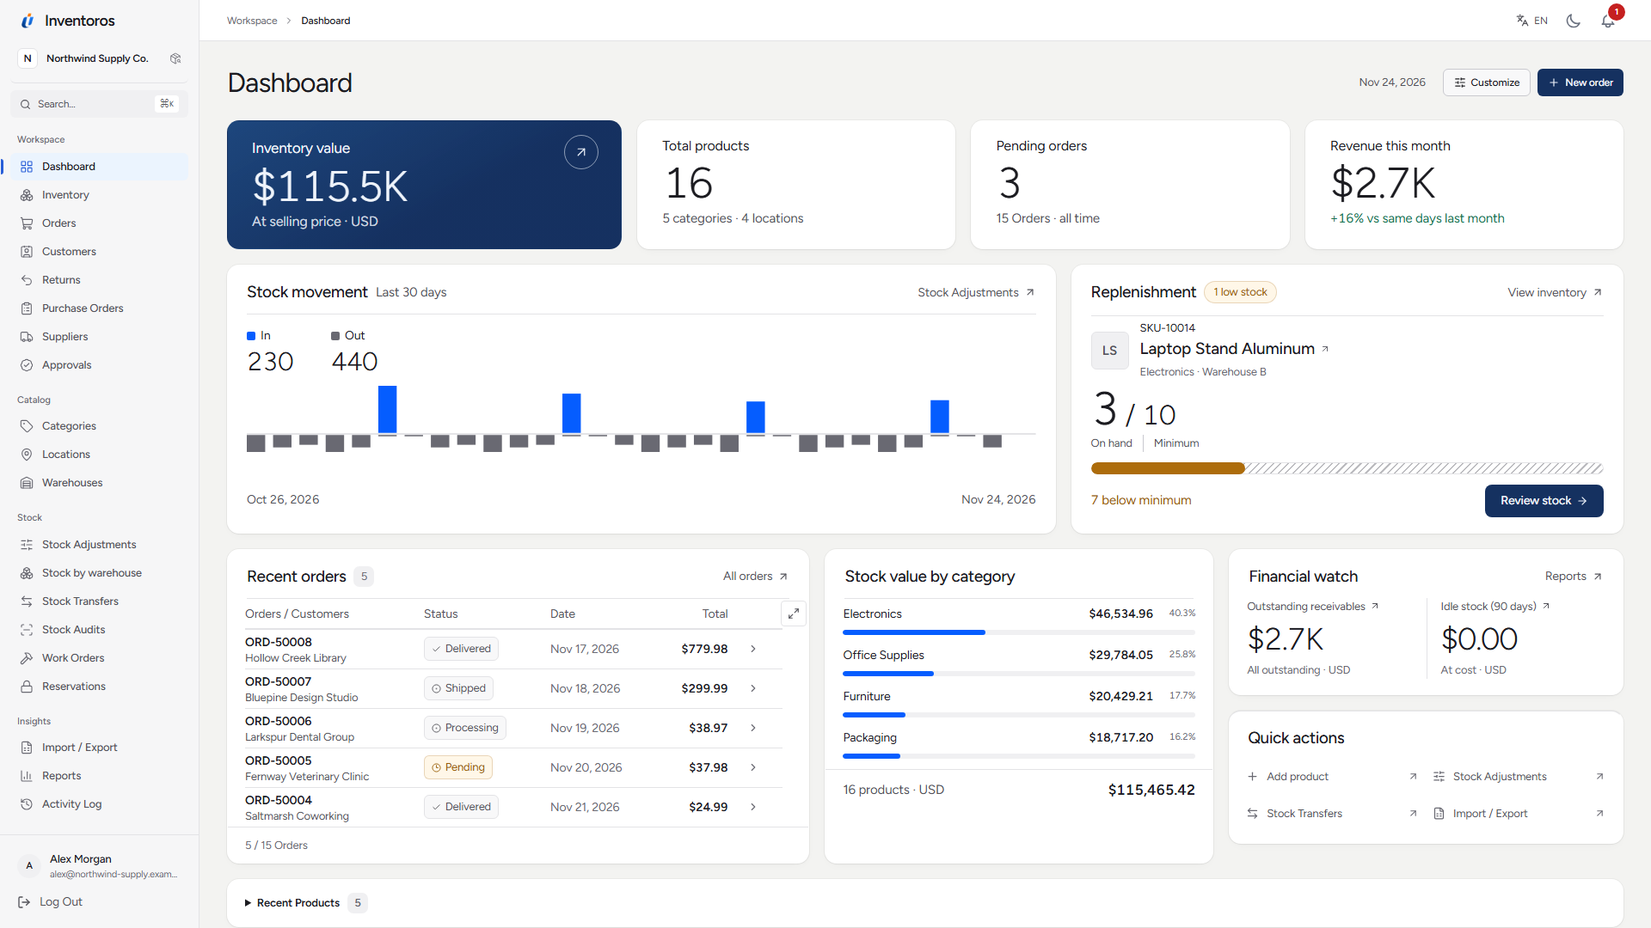
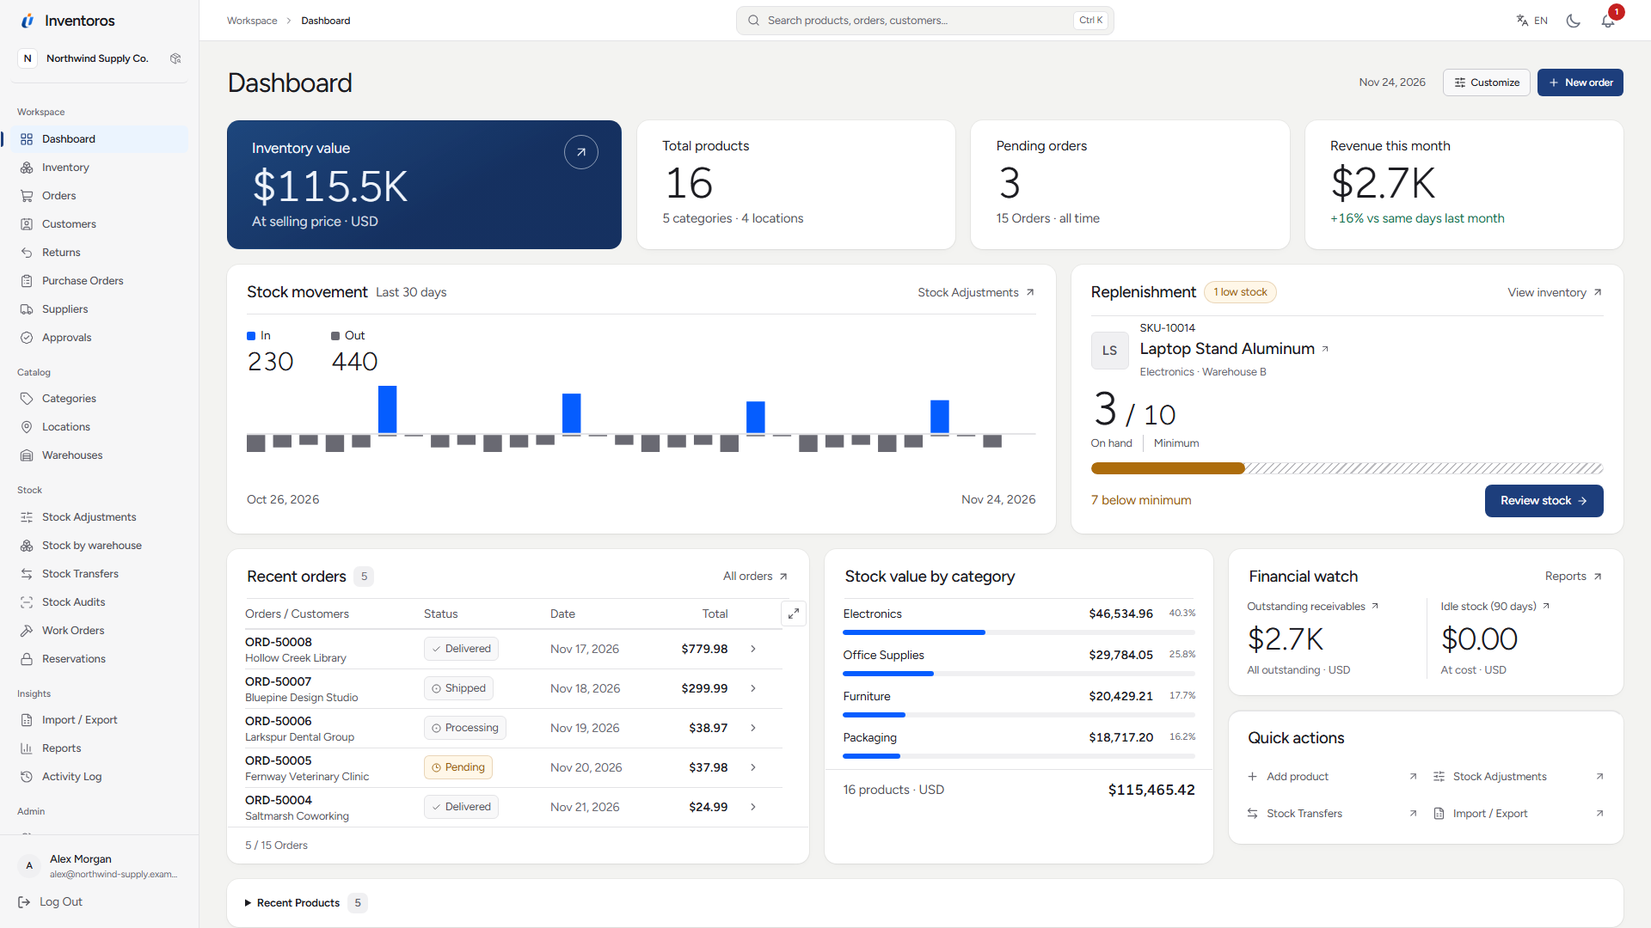
feat(ui): top-bar search, deep-blue primary actions and a dark-mode pass
App-wide, so every page matches the refreshed dashboard:

- Search moves from the sidebar to the centre of the top bar (an icon on
  phones). The hint shows the right shortcut for the keyboard (Cmd K on a
  Mac, Ctrl K elsewhere, with aria-keyshortcuts), and "/" now opens search
  whenever focus is not in a field.
- Light theme: primary actions, links and selection use a deep blue
  (--accent 219 62% 30%); bright blue stays for chart data and the focus
  ring. Every page sits on a soft grey (--surface-page) behind white panels.
- Filled surfaces (primary buttons, checked controls, the active page) use
  new brand-solid colours, so dark mode fills them with a solid blue that
  carries white text while links keep a lighter, readable blue.
- Dark theme: the page is a step below the panels so they separate, and
  the inventory value card uses a richer navy.
- The dashboard's own navy button and page-background overrides are gone;
  it now uses the shared ones. README dashboard screenshots regenerated.

diff --git a/resources/js/Layouts/AppLayout.vue b/resources/js/Layouts/AppLayout.vue
@@ -240,6 +240,11 @@ const visibleSections = computed(() =>
 );
 
 const isActive = (item) => item.active.some((pattern) => route().current(pattern));
+// Shown on the search trigger so the shortcut matches the keyboard in use.
+const isMac = typeof navigator !== 'undefined' && /Mac|iPhone|iPad/.test(navigator.userAgentData?.platform || navigator.platform || '');
+const searchShortcut = isMac ? '⌘K' : 'Ctrl K';
+// The same shortcut in the form aria-keyshortcuts expects.
+const searchKeys = isMac ? 'Meta+K' : 'Control+K';
 </script>
 
 <template>
@@ -304,22 +309,6 @@ const isActive = (item) => item.active.some((pattern) => route().current(pattern
                     </span>
                     <PackageSearch :size="14" :stroke-width="1.6" class="text-text-tertiary" />
                 </Link>
-            </div>
-
-            <!-- Cmd-K search trigger -->
-            <div class="px-3 shrink-0">
-                <button
-                    @click="globalSearchRef?.open()"
-                    class="workspace-search w-full flex items-center gap-2 h-8 px-2.5 rounded-md text-xs text-text-secondary
-                           bg-surface-overlay border border-transparent hover:border-border-strong
-                           transition-colors ds-focus-ring"
-                >
-                    <Search :size="13" />
-                    <span class="flex-1 text-start">{{ t('nav.search') }}</span>
-                    <kbd class="hidden md:inline px-1.5 py-0.5 rounded bg-surface-overlay text-[10px] font-mono text-text-secondary border border-border-subtle">
-                        ⌘K
-                    </kbd>
-                </button>
             </div>
 
             <!-- Nav -->
@@ -398,7 +387,27 @@ const isActive = (item) => item.active.some((pattern) => route().current(pattern
                         <span class="text-xs text-text-tertiary">{{ workspaceName }}</span>
                     </slot>
                 </div>
+                <!-- Global search: Cmd/Ctrl+K anywhere, or "/" outside a field. -->
+                <button
+                    type="button"
+                    class="workspace-search hidden md:flex"
+                    :aria-label="`${t('nav.search')} (${searchShortcut})`"
+                    :aria-keyshortcuts="searchKeys"
+                    @click="globalSearchRef?.open()"
+                >
+                    <Search :size="15" :stroke-width="1.7" aria-hidden="true" />
+                    <span class="workspace-search-placeholder">{{ t('nav.globalSearch.placeholder') }}</span>
+                    <kbd aria-hidden="true">{{ searchShortcut }}</kbd>
+                </button>
                 <div class="workspace-global-controls flex items-center gap-1 shrink-0">
+                    <button
+                        type="button"
+                        class="md:hidden p-1.5 rounded-md text-text-secondary hover:bg-surface-overlay ds-focus-ring"
+                        :aria-label="t('nav.search')"
+                        @click="globalSearchRef?.open()"
+                    >
+                        <Search :size="18" aria-hidden="true" />
+                    </button>
                     <OrganizationSwitcher />
                     <WarehouseSwitcher />
                     <LanguageSwitcher />

diff --git a/resources/js/Components/BarcodeScannerModal.vue b/resources/js/Components/BarcodeScannerModal.vue
@@ -155,7 +155,7 @@ const selectProduct = () => {
                                 :class="[
                                     'px-4 py-2 text-sm rounded-md transition-colors',
                                     scannerMode === 'camera'
-                                        ? 'bg-brand text-white'
+                                        ? 'bg-brand-solid text-white'
                                         : 'bg-gray-100 dark:bg-surface-canvas text-gray-700 dark:text-gray-300'
                                 ]"
                             >
@@ -170,7 +170,7 @@ const selectProduct = () => {
                                 :class="[
                                     'px-4 py-2 text-sm rounded-md transition-colors',
                                     scannerMode === 'manual'
-                                        ? 'bg-brand text-white'
+                                        ? 'bg-brand-solid text-white'
                                         : 'bg-gray-100 dark:bg-surface-canvas text-gray-700 dark:text-gray-300'
                                 ]"
                             >
@@ -207,7 +207,7 @@ const selectProduct = () => {
                             <button
                                 @click="submitManualCode"
                                 :disabled="!manualCode.trim() || isLoading"
-                                class="w-full inline-flex justify-center items-center px-4 py-2 bg-brand border border-transparent rounded-md font-semibold text-xs text-brand-foreground uppercase tracking-widest hover:bg-brand-hover disabled:opacity-50"
+                                class="w-full inline-flex justify-center items-center px-4 py-2 bg-brand-solid border border-transparent rounded-md font-semibold text-xs text-brand-solid-foreground uppercase tracking-widest hover:bg-brand-solid-hover disabled:opacity-50"
                             >
                                 <svg v-if="isLoading" class="animate-spin -ms-1 me-2 h-4 w-4 text-white" fill="none" viewBox="0 0 24 24">
                                     <circle class="opacity-25" cx="12" cy="12" r="10" stroke="currentColor" stroke-width="4"></circle>
@@ -271,7 +271,7 @@ const selectProduct = () => {
                             <p class="mt-1 text-xs text-text-secondary">{{ t('components.barcodeScanner.productsHere', { count: foundLocation.product_count }, foundLocation.product_count) }}</p>
                             <a
                                 :href="foundLocation.products_url"
-                                class="mt-3 inline-flex w-full items-center justify-center rounded-md bg-brand px-4 py-2 text-xs font-semibold text-brand-foreground hover:bg-brand-hover ds-focus-ring"
+                                class="mt-3 inline-flex w-full items-center justify-center rounded-md bg-brand-solid px-4 py-2 text-xs font-semibold text-brand-solid-foreground hover:bg-brand-solid-hover ds-focus-ring"
                             >
                                 {{ t('components.barcodeScanner.viewProductsHere') }}
                             </a>

diff --git a/resources/css/workspace.css b/resources/css/workspace.css
@@ -3,7 +3,6 @@
 .workspace-sidebar { width: var(--workspace-sidebar-width); }
 .workspace-brand { height: 48px; letter-spacing: -0.035em; }
 .workspace-context { border-bottom: 1px solid hsl(var(--border-subtle)); padding-block-end: 8px; }
-.workspace-search kbd { border: 0; background: hsl(var(--surface-raised)); }
 .workspace-section-label { letter-spacing: 0; padding-block: 2px; }
 .workspace-nav > div { margin-bottom: 15px; }
 .workspace-nav-item { border: 1px solid transparent; font-weight: 450; }
@@ -28,6 +27,47 @@
     .workspace-nav-item.is-active::before { background: Highlight; }
 }
 .workspace-topbar { height: 48px; }
+/* Every page sits on the same soft grey, with panels in white. */
+.workspace-main { background-color: hsl(var(--surface-page)); }
+.workspace-main .workspace-topbar { background-color: hsl(var(--surface-raised)); }
+/* Global search, centred in the top bar. */
+.workspace-search {
+    flex: 0 1 420px;
+    align-items: center;
+    gap: 9px;
+    height: 34px;
+    margin-inline: 16px;
+    padding-inline: 12px 6px;
+    border: 1px solid hsl(var(--border-subtle));
+    border-radius: 9px;
+    background: hsl(var(--surface-page));
+    color: hsl(var(--text-tertiary));
+    font-size: 13px;
+    transition: border-color 120ms ease, background-color 120ms ease;
+}
+.workspace-search:hover { border-color: hsl(var(--border-strong)); }
+/* From tablet up the bar is three columns, so search sits in the centre. */
+@media (min-width: 768px) {
+    .workspace-main .workspace-topbar {
+        display: grid;
+        grid-template-columns: minmax(0, 1fr) minmax(240px, 440px) minmax(0, 1fr);
+    }
+    .workspace-topbar .workspace-search { width: 100%; margin-inline: 0; }
+    .workspace-topbar .workspace-global-controls { justify-self: end; }
+}
+.workspace-search:focus-visible { outline: 2px solid hsl(var(--ring)); outline-offset: 2px; }
+.workspace-search-placeholder { flex: 1; min-width: 0; overflow: hidden; text-align: start; text-overflow: ellipsis; white-space: nowrap; }
+.workspace-search kbd {
+    flex-shrink: 0;
+    padding: 2px 6px;
+    border: 1px solid hsl(var(--border-subtle));
+    border-radius: 5px;
+    background: hsl(var(--surface-raised));
+    color: hsl(var(--text-secondary));
+    font-family: inherit;
+    font-size: 11px;
+    line-height: 16px;
+}
 .workspace-topbar .app-breadcrumb { font-size: 12px; }
 .workspace-global-controls { gap: 4px; }
 .workspace-main > main:not(.app-table-page) { padding-block: 28px; }

diff --git a/resources/css/design-tokens.css b/resources/css/design-tokens.css
@@ -13,7 +13,8 @@
 @layer base {
     :root {
         /* Quiet page, white panels, and a light navigation surface. */
-        --surface-canvas: 240 5% 97.5%;        /* page background */
+        --surface-canvas: 240 5% 97.5%;        /* inputs, outline buttons */
+        --surface-page: 40 6% 95%;          /* soft grey behind the panels */
         --surface-base: 240 5% 96.5%;        /* sidebar, header */
         --surface-raised: 0.00 0.00% 100.00%;      /* white panels, popovers */
         --surface-overlay: 240 4% 94.5%;     /* hover, active row */
@@ -32,10 +33,15 @@
         /* Accent — brighter blue (matches the marketing site + app primary).
            The blue accent is dark enough that text-brand meets
            WCAG AA for normal text; blue-500 was only 3.68:1. */
-        --accent: 221.59 69.29% 50.20%;
-        --accent-hover: 226 71% 48%;        /* blue-700 #1d4ed8 */
+        /* Primary actions, links and selection use a deep blue; bright blue
+           stays for chart data and the focus ring. */
+        --accent: 219 62% 30%;
+        --accent-hover: 219 62% 24%;
         --accent-foreground: 0 0% 100%;
         --accent-soft: 214 95% 96%;         /* selected row, badge bg */
+        --accent-solid: 219 62% 30%;
+        --accent-solid-hover: 219 62% 24%;
+        --accent-solid-foreground: 0 0% 100%;
 
         /* Status — semantic, also muted */
         --status-success: 156.38 67.14% 27.45%;
@@ -60,6 +66,7 @@
 
     .dark {
         --surface-canvas: 240 6% 7.5%;       /* neutral graphite */
+        --surface-page: 240 7% 5.5%;        /* a step below the panels */
         --surface-base: 240 6% 9.5%;
         --surface-raised: 240 5% 11%;
         --surface-overlay: 240 4% 15%;
@@ -77,6 +84,9 @@
         --accent-hover: 213 94% 74%;
         --accent-foreground: 222 47% 11%;
         --accent-soft: 217 45% 18%;
+        --accent-solid: 221 83% 53%;
+        --accent-solid-hover: 221 83% 47%;
+        --accent-solid-foreground: 0 0% 100%;
 
         --status-success: 148.80 49.02% 70.00%;
         --status-success-soft: 142 30% 16%;

diff --git a/resources/js/Components/ProductVariantManager.vue b/resources/js/Components/ProductVariantManager.vue
@@ -311,7 +311,7 @@ const getEffectivePurchasePrice = (variant) => {
                             type="button"
                             @click="addOption"
                             :disabled="disabled || !newOptionName || !newOptionValues"
-                            class="px-4 py-2 bg-brand text-brand-foreground rounded-md hover:bg-brand-hover disabled:opacity-50"
+                            class="px-4 py-2 bg-brand-solid text-brand-solid-foreground rounded-md hover:bg-brand-solid-hover disabled:opacity-50"
                         >
                             {{ t('components.variantManager.addOption') }}
                         </button>
@@ -433,7 +433,7 @@ const getEffectivePurchasePrice = (variant) => {
                                         class="sr-only peer"
                                         :disabled="disabled"
                                     />
-                                    <div class="w-9 h-5 bg-gray-200 peer-focus:outline-hidden peer-focus:ring-4 peer-focus:ring-brand/25 rounded-full peer dark:bg-border-subtle peer-checked:after:translate-x-full peer-checked:after:border-white after:content-[''] after:absolute after:top-[2px] after:start-[2px] after:bg-white after:border-gray-300 after:border after:rounded-full after:h-4 after:w-4 after:transition-all dark:border-gray-600 peer-checked:bg-brand"></div>
+                                    <div class="w-9 h-5 bg-gray-200 peer-focus:outline-hidden peer-focus:ring-4 peer-focus:ring-brand/25 rounded-full peer dark:bg-border-subtle peer-checked:after:translate-x-full peer-checked:after:border-white after:content-[''] after:absolute after:top-[2px] after:start-[2px] after:bg-white after:border-gray-300 after:border after:rounded-full after:h-4 after:w-4 after:transition-all dark:border-gray-600 peer-checked:bg-brand-solid"></div>
                                 </label>
                             </td>
                         </tr>

diff --git a/resources/js/Pages/Products/Index.vue b/resources/js/Pages/Products/Index.vue
@@ -373,7 +373,7 @@ const thClass =
                             <Link v-if="link.url" preserve-state preserve-scroll :href="link.url"
                                 :class="[
                                     'inline-flex h-8 min-w-8 items-center justify-center rounded-md border px-2.5 text-xs font-medium transition-colors',
-                                    link.active ? 'border-brand bg-brand text-brand-foreground' : 'border-border-subtle bg-surface-canvas text-text-secondary hover:bg-surface-overlay',
+                                    link.active ? 'border-brand bg-brand-solid text-brand-solid-foreground' : 'border-border-subtle bg-surface-canvas text-text-secondary hover:bg-surface-overlay',
                                 ]"
                                 v-html="link.label" />
                             <span role="link" aria-disabled="true" v-else class="inline-flex h-8 min-w-8 cursor-not-allowed items-center justify-center rounded-md border border-border-subtle px-2.5 text-xs text-text-tertiary" v-html="link.label" />
@@ -455,7 +455,7 @@ const thClass =
         <button
             v-if="hasPermission('view_products')"
             @click="openScanner"
-            class="fixed bottom-6 end-6 z-40 flex h-14 w-14 items-center justify-center rounded-full bg-brand text-brand-foreground shadow-md transition-colors duration-200 hover:bg-brand-hover"
+            class="fixed bottom-6 end-6 z-40 flex h-14 w-14 items-center justify-center rounded-full bg-brand-solid text-brand-solid-foreground shadow-md transition-colors duration-200 hover:bg-brand-solid-hover"
             :title="t('products.scanBarcode')"
         >
             <ScanLine :size="24" />

diff --git a/resources/js/Pages/Install/Database.vue b/resources/js/Pages/Install/Database.vue
@@ -273,7 +273,7 @@ const install = async (reset = false) => {
                             type="button"
                             @click="testConnection"
                             :disabled="testing"
-                            class="w-full px-4 py-2 bg-brand text-brand-foreground font-semibold rounded-lg hover:bg-brand-hover transition disabled:opacity-50"
+                            class="w-full px-4 py-2 bg-brand-solid text-brand-solid-foreground font-semibold rounded-lg hover:bg-brand-solid-hover transition disabled:opacity-50"
                         >
                             <span v-if="testing">{{ t('install.database.testing') }}</span>
                             <span v-else>{{ t('install.database.testConnection') }}</span>
@@ -309,7 +309,7 @@ const install = async (reset = false) => {
                         <button
                             type="submit"
                             :disabled="installing || !testResult?.success"
-                            class="inline-flex items-center px-6 py-2 bg-brand text-brand-foreground font-semibold rounded-lg hover:bg-brand-hover transition disabled:opacity-50 disabled:cursor-not-allowed"
+                            class="inline-flex items-center px-6 py-2 bg-brand-solid text-brand-solid-foreground font-semibold rounded-lg hover:bg-brand-solid-hover transition disabled:opacity-50 disabled:cursor-not-allowed"
                         >
                             <span v-if="installing">{{ t('install.database.installing') }}</span>
                             <span v-else>{{ t('install.database.installDatabase') }}</span>

diff --git a/resources/js/Components/SerialList.vue b/resources/js/Components/SerialList.vue
@@ -114,7 +114,7 @@ const statusBadgeClass = (status) => {
             </h3>
             <button
                 @click="showForm = !showForm"
-                class="inline-flex items-center px-3 py-1.5 bg-brand text-brand-foreground text-sm font-medium rounded-md hover:bg-brand-hover transition"
+                class="inline-flex items-center px-3 py-1.5 bg-brand-solid text-brand-solid-foreground text-sm font-medium rounded-md hover:bg-brand-solid-hover transition"
             >
                 <svg v-if="!showForm" class="w-4 h-4 me-1" fill="none" stroke="currentColor" viewBox="0 0 24 24">
                     <path stroke-linecap="round" stroke-linejoin="round" stroke-width="2" d="M12 4v16m8-8H4" />
@@ -191,7 +191,7 @@ const statusBadgeClass = (status) => {
             <button
                 @click="createSerial"
                 :disabled="loading || !form.serial_number"
-                class="px-4 py-2 bg-brand text-brand-foreground text-sm font-medium rounded-md hover:bg-brand-hover transition disabled:opacity-50"
+                class="px-4 py-2 bg-brand-solid text-brand-solid-foreground text-sm font-medium rounded-md hover:bg-brand-solid-hover transition disabled:opacity-50"
             >
                 {{ loading ? t('common.creating') : t('components.serialList.createSerial') }}
             </button>

diff --git a/resources/js/Components/BatchList.vue b/resources/js/Components/BatchList.vue
@@ -95,7 +95,7 @@ const isExpired = (batch) => {
             </h3>
             <button
                 @click="showForm = !showForm"
-                class="inline-flex items-center px-3 py-1.5 bg-brand text-brand-foreground text-sm font-medium rounded-md hover:bg-brand-hover transition"
+                class="inline-flex items-center px-3 py-1.5 bg-brand-solid text-brand-solid-foreground text-sm font-medium rounded-md hover:bg-brand-solid-hover transition"
             >
                 <svg v-if="!showForm" class="w-4 h-4 me-1" fill="none" stroke="currentColor" viewBox="0 0 24 24">
                     <path stroke-linecap="round" stroke-linejoin="round" stroke-width="2" d="M12 4v16m8-8H4" />
@@ -157,7 +157,7 @@ const isExpired = (batch) => {
             <button
                 @click="createBatch"
                 :disabled="loading || !form.quantity"
-                class="px-4 py-2 bg-brand text-brand-foreground text-sm font-medium rounded-md hover:bg-brand-hover transition disabled:opacity-50"
+                class="px-4 py-2 bg-brand-solid text-brand-solid-foreground text-sm font-medium rounded-md hover:bg-brand-solid-hover transition disabled:opacity-50"
             >
                 {{ loading ? t('common.creating') : t('components.batchList.createBatch') }}
             </button>

diff --git a/resources/js/Pages/WorkOrders/Show.vue b/resources/js/Pages/WorkOrders/Show.vue
@@ -279,7 +279,7 @@ const fieldArea = 'w-full rounded-md border border-border-subtle bg-surface-canv
                             <div
                                 class="flex h-8 w-8 items-center justify-center rounded-full text-xs font-bold transition-colors"
                                 :class="isStepCompleted(step.key)
-                                    ? 'bg-brand text-brand-foreground'
+                                    ? 'bg-brand-solid text-brand-solid-foreground'
                                     : 'bg-surface-overlay text-text-tertiary'"
                             >
                                 <Check v-if="isStepCompleted(step.key) && !isStepCurrent(step.key)" :size="16" />
@@ -295,7 +295,7 @@ const fieldArea = 'w-full rounded-md border border-border-subtle bg-surface-canv
                         <div
                             v-if="index < statusSteps.length - 1"
                             class="mx-4 h-0.5 flex-1"
-                            :class="isStepCompleted(statusSteps[index + 1].key) ? 'bg-brand' : 'bg-border-subtle'"
+                            :class="isStepCompleted(statusSteps[index + 1].key) ? 'bg-brand-solid' : 'bg-border-subtle'"
                         ></div>
                     </template>
                 </div>

diff --git a/resources/js/Components/ui/Pagination.vue b/resources/js/Components/ui/Pagination.vue
@@ -11,7 +11,7 @@ const { t } = useI18n();
         <nav class="inline-flex flex-wrap items-center gap-1" :aria-label="t('common.pagination')">
             <template v-for="link in paginator.links" :key="link.label">
                 <Link v-if="link.url" :href="link.url" preserve-scroll :aria-current="link.active ? 'page' : undefined"
-                    :class="['inline-flex h-8 min-w-8 items-center justify-center rounded-md border px-2.5 text-xs font-medium transition-colors ds-focus-ring', link.active ? 'border-brand bg-brand text-brand-foreground' : 'border-border-subtle bg-surface-canvas text-text-secondary hover:bg-surface-overlay']"
+                    :class="['inline-flex h-8 min-w-8 items-center justify-center rounded-md border px-2.5 text-xs font-medium transition-colors ds-focus-ring', link.active ? 'border-brand bg-brand-solid text-brand-solid-foreground' : 'border-border-subtle bg-surface-canvas text-text-secondary hover:bg-surface-overlay']"
                     v-html="link.label" />
                 <span v-else role="link" aria-disabled="true" class="inline-flex h-8 min-w-8 cursor-not-allowed items-center justify-center rounded-md border border-border-subtle px-2.5 text-xs text-text-tertiary" v-html="link.label" />
             </template>

diff --git a/resources/css/dashboard.css b/resources/css/dashboard.css
@@ -993,13 +993,9 @@ a.dashboard-metric:hover {
     --dashboard-panel-shadow: 0 1px 2px hsl(240 10% 10% / 0.04);
 }
 .dark .dashboard {
-    --dashboard-navy: 218 48% 24%;
-    --dashboard-navy-hover: 218 48% 30%;
+    --dashboard-navy: 219 52% 25%;
+    --dashboard-navy-hover: 219 52% 30%;
     --dashboard-panel-shadow: none;
-}
-/* The soft grey page sits behind the dashboard only. */
-:root:not(.dark) .workspace-main:has(> main > .dashboard) {
-    background: hsl(240 6% 95.5%);
 }
 
 .dashboard h1 {
@@ -1017,13 +1013,6 @@ a.dashboard-metric:hover {
 .dashboard-date {
     font-size: 13px;
     color: hsl(var(--text-secondary));
-}
-.dashboard .dashboard-primary-action {
-    background: hsl(var(--dashboard-navy));
-    color: hsl(var(--dashboard-navy-text));
-}
-.dashboard .dashboard-primary-action:hover {
-    background: hsl(var(--dashboard-navy-hover));
 }
 
 /* Panels */
@@ -1343,9 +1332,6 @@ a.dashboard-metric:hover {
     --dashboard-chart-in: 219 100% 68%;
     --dashboard-panel-edge: 0 0 0 1px hsl(var(--border-subtle));
     --dashboard-panel-shadow: none;
-}
-:root:not(.dark) .workspace-main:has(> main > .dashboard) {
-    background: hsl(40 6% 95%);
 }
 
 /* Panels float on a soft edge and shadow instead of a drawn border. */
